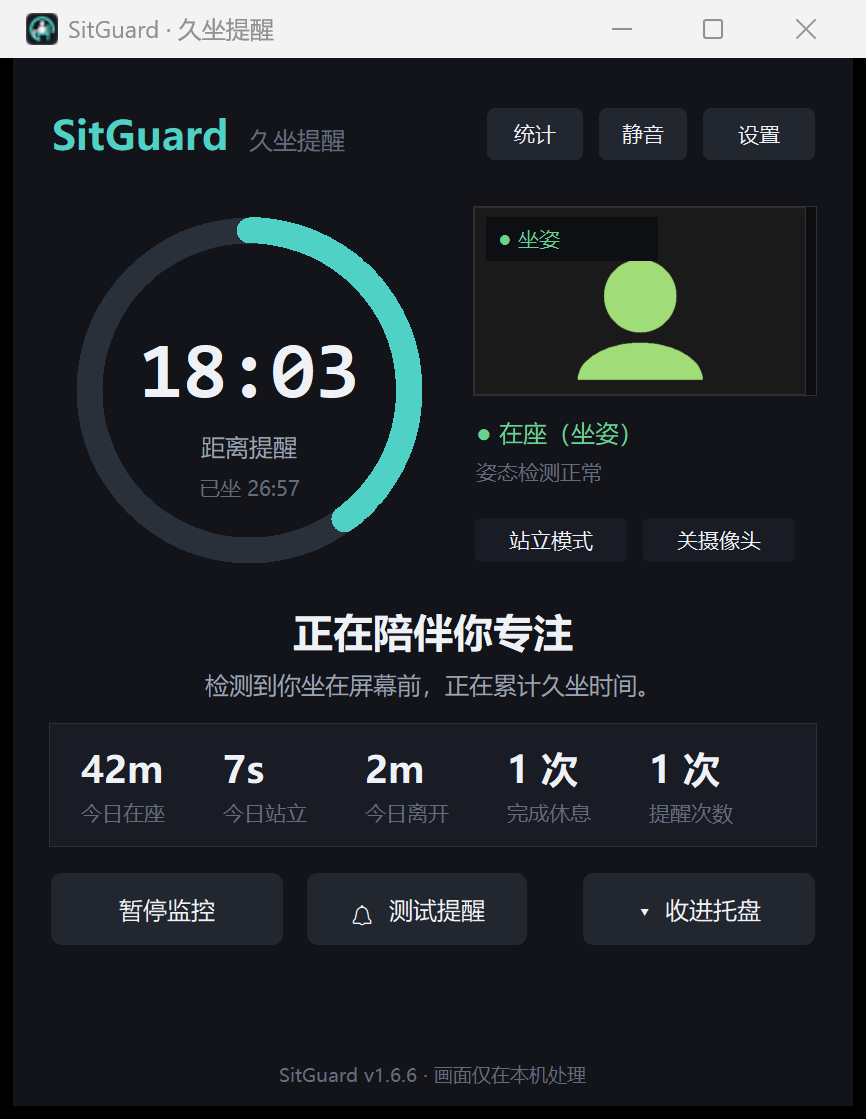
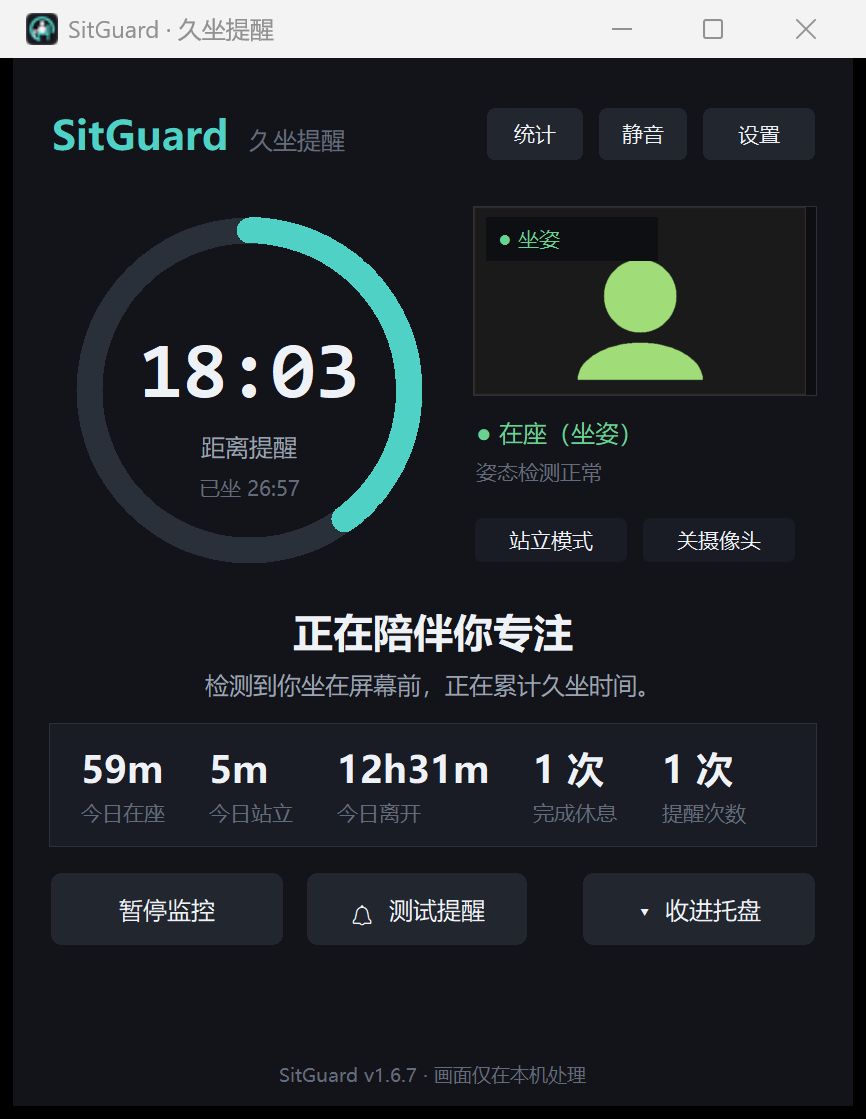
revert: remove head-down posture reminders
The face-box/nose heuristics produced too many false head-down prompts. Remove the head-state module, camera integration, main-window label, posture sound, settings row, tests and documentation; presence remains face or sitting-height shoulders.

diff --git a/sitguard/camera.py b/sitguard/camera.py
@@ -16,7 +16,6 @@ from pathlib import Path
 import cv2
 import numpy as np
 
-from .head import HeadState
 from .health import FrameHealth
 from .posture import (L_SHOULDER, R_SHOULDER, Landmark, Posture, PostureAnalyzer,
                       PostureProfile, extract_profile)
@@ -62,7 +61,6 @@ class CameraSnapshot:
     pose: list[Landmark] | None = None
     stamp: float = 0.0
     status: CameraStatus = field(default_factory=CameraStatus)
-    head_down: bool = False
 
 
 class FaceDetector:
@@ -186,10 +184,8 @@ class CameraWorker:
         self._cap = None
         self.posture = PostureAnalyzer()
         self._last_posture: Posture = "unknown"
-        self._last_head: str | None = None
         self._pose_error = ""
         self._health = FrameHealth()
-        self.head = HeadState()
         self._blocked = False
         self._blocked_since = 0.0
         self._blocked_logged = 0.0
@@ -266,7 +262,7 @@ class CameraWorker:
             return CameraSnapshot(snap.frame, list(snap.faces), snap.seen,
                                   snap.posture, snap.posture_reason,
                                   snap.standing_seconds, snap.profile, snap.pose,
-                                  snap.stamp, snap.status.copy(), snap.head_down)
+                                  snap.stamp, snap.status.copy())
 
     @property
     def status(self) -> CameraStatus:
@@ -447,34 +443,8 @@ class CameraWorker:
                             pose_lms = None
                     h, w = frame.shape[:2]
                     profile = extract_profile(faces, pose_lms, w, h)
-                    sit = self.posture.sitting_profile
-                    sit_face_y = sit.face_y if sit is not None else None
-                    sit_bottom = ((sit.face_y + (sit.face_h or 0) / 2.0)
-                                  if sit is not None and sit.face_y is not None else None)
                     body_present = self._pose_body_present(pose_lms)
-                    head = self.head.update(seen, profile, pose_lms, now,
-                                            sit_face_y, body_present, sit_bottom)
-                    head_down = head == "down"
-                    # 脸/鼻子都没有、肩膀也看不到时，低头最多维持 5 分钟，
-                    # 避免人离开后一直被记成坐着。
-                    if (head_down and not seen and not body_present
-                            and self.head.last_at
-                            and now - self.head.last_at > 300.0):
-                        head_down = False
-                        head = None
-                    if head != self._last_head:
-                        log.info("头部状态：%s → %s nose=%s shoulder=%s face_y=%s",
-                                 self._last_head, head,
-                                 None if not pose_lms else
-                                 (round(pose_lms[0].y, 3), round(pose_lms[0].x, 3),
-                                  round(pose_lms[0].visibility, 2)),
-                                 None if profile.shoulder_y is None else round(profile.shoulder_y, 3),
-                                 None if profile.face_y is None else round(profile.face_y, 3))
-                        self._last_head = head
-                    if head == "side":
-                        person = False
-                    else:
-                        person = seen or head_down or body_present
+                    person = seen or body_present
                     if self.on_presence:
                         try:
                             self.on_presence(person, now)
@@ -484,10 +454,6 @@ class CameraWorker:
                         posture = self.posture.update(
                             now, pose=pose_lms, profile=profile,
                             face_present=seen, person_present=person)
-                        # 低头且肩膀仍在坐姿高度时，优先按坐姿处理，
-                        # 避免膝盖/躯干比例把低头误判成站立。
-                        if head_down and body_present and posture == "standing":
-                            posture = "sitting"
                     except Exception:  # noqa: BLE001
                         log.exception("姿态分析异常")
                     if posture != self._last_posture:
@@ -515,7 +481,6 @@ class CameraWorker:
                     snap.profile = profile
                     snap.pose = pose_lms
                     snap.stamp = now
-                    snap.head_down = head_down
                     if self._blocked:
                         snap.status.state = "blocked"
                         snap.status.message = "画面全黑：请检查摄像头遮挡盖、隐私开关或镜头盖"
@@ -552,7 +517,6 @@ class SimulatedCamera:
         self._present = True
         self._posture: Posture = "sitting"
         self._last_posture: Posture = "unknown"
-        self._last_head: str | None = None
 
     def start(self) -> None:
         self._stop.clear()

diff --git a/sitguard/app.py b/sitguard/app.py
@@ -99,8 +99,6 @@ class App:
         self._stand_goal_started = time.monotonic()
         self._stand_goal_last = 0.0
         self._last_stand_check = 0.0
-        self._head_down_active = False
-        self._last_head_down_reminder = 0.0
         self._last_stats_save = time.monotonic()
         self._last_preview = 0.0
         self._tray = None
@@ -431,7 +429,6 @@ class App:
             self._track_posture(now)
             self._track_activity()
             self._check_stand_goal(now)
-            self._check_head_down(now)
             try:
                 view = bool(self.root.winfo_exists()) and self.root.state() != "withdrawn"
             except tk.TclError:
@@ -494,11 +491,9 @@ class App:
     def _track_activity(self) -> None:
         pose_ok = self._camera_snapshot.status.pose_ok
         snap = self.engine.snapshot(self._camera_state, self._camera_message, pose_ok)
-        head_down = bool(getattr(self._camera_snapshot, "head_down", False))
         kind = ("paused" if snap.phase is Phase.PAUSED
                 else ("away" if not snap.present
-                      else ("sitting" if head_down
-                            else ("standing" if snap.posture == "standing" else "sitting"))))
+                      else ("standing" if snap.posture == "standing" else "sitting")))
         self.activity.update(kind)
 
     def _refresh(self, now: float) -> None:
@@ -687,25 +682,6 @@ class App:
             sound.reminder_sound(cfg.sound_file, cfg.sound_name)
         log.info("站立不足提醒：%.0f 秒 / %d 分钟窗口", standing,
                  cfg.stand_goal_window_minutes)
-
-    def _check_head_down(self, now: float) -> None:
-        """低头看手机/书时保持坐姿计时，并提醒纠正体态。"""
-        down = bool(getattr(self._camera_snapshot, "head_down", False))
-        active = (down and self.engine.present
-                  and self.engine.phase is Phase.WATCHING)
-        if not active:
-            self._head_down_active = False
-            return
-        due = (not self._head_down_active
-               or now - self._last_head_down_reminder >= 180.0)
-        if not due:
-            return
-        self._head_down_active = True
-        self._last_head_down_reminder = now
-        self.notify(i18n.t("toast_head_down"), ui.WARN, ms=4200)
-        if self.config.sound and not self.is_silent():
-            sound.posture_sound(self.config.posture_sound)
-        log.info("低头体态提醒")
 
     def _track_posture(self, now: float) -> None:
         snap = self.engine.snapshot(self._camera_state, self._camera_message,

diff --git a/sitguard/views.py b/sitguard/views.py
@@ -492,9 +492,7 @@ class MainWindow:
         sit = snap.sitting_seconds
         limit = snap.sit_limit
         ratio = sit / limit if limit else 0
-        head_down = (self.app._camera_state == "ok" and snap.present
-                     and bool(getattr(self.app._camera_snapshot, "head_down", False)))
-        standing = snap.posture == "standing" and snap.present and not head_down
+        standing = snap.posture == "standing" and snap.present
 
         if phase is Phase.PAUSED:
             heading = t("paused_heading")
@@ -547,16 +545,11 @@ class MainWindow:
                                        color=color)
             self.btn_pause.configure_text(t("pause"))
 
-        if head_down:
-            heading = t("head_down_heading")
-            sub = t("head_down_sub")
         self.lbl_heading.configure(text=heading)
         self.lbl_sub.configure(text=sub)
 
         if camera_state == "ok":
-            if head_down:
-                self.lbl_presence.configure(text=t("head_down_label"), fg=ui.WARN)
-            elif not snap.present:
+            if not snap.present:
                 away = snap.away_seconds
                 if away >= 60:
                     self.lbl_presence.configure(
@@ -1631,7 +1624,7 @@ class SoundWindow:
     """选择提醒音、站起音、坐下音；支持自定义 WAV。"""
 
     KEYS = ("classic", "bright", "drop", "rise", "dingdong", "wood",
-            "bird", "retro", "sit_soft", "stand_up", "posture", "none")
+            "bird", "retro", "sit_soft", "stand_up", "none")
 
     def __init__(self, app, root: tk.Tk):
         self.app = app
@@ -1685,10 +1678,6 @@ class SoundWindow:
         self._sound_row(win, t("sound_stand"), stand_var,
                         lambda: self._pick("stand_sound", stand_var),
                         "stand_sound", cfg.stand_sound)
-        posture_var = tk.StringVar(value=self._label(cfg.posture_sound))
-        self._sound_row(win, t("sound_posture"), posture_var,
-                        lambda: self._pick("posture_sound", posture_var),
-                        "posture_sound", cfg.posture_sound)
 
         ui.RoundButton(win, t("close"), command=self.close, width=110,
                        height=36, radius=10, bg=ui.BG_3,
@@ -1751,8 +1740,6 @@ class SoundWindow:
             sound.reminder_sound(cfg.sound_file, cfg.sound_name)
         elif field == "sit_sound":
             sound.sit_sound(cfg.sit_sound)
-        elif field == "posture_sound":
-            sound.posture_sound(cfg.posture_sound)
         else:
             sound.stand_sound(cfg.stand_sound)
 

diff --git a/sitguard/i18n.py b/sitguard/i18n.py
@@ -81,8 +81,8 @@ _T = {
     "stats_no_record": ("该日期没有记录", "No record for this date"),
     "stats_bad_date": ("日期格式：YYYY-MM-DD", "Date format: YYYY-MM-DD"),
     "stats_future": ("不能查看未来日期", "Cannot view a future date"),
-    "footer": ("SitGuard v1.6.6 · 画面仅在本机处理",
-               "SitGuard v1.6.6 · Processed locally only"),
+    "footer": ("SitGuard v1.6.7 · 画面仅在本机处理",
+               "SitGuard v1.6.7 · Processed locally only"),
     "stand_mode": ("站立模式", "Stand mode"),
     "sit_down": ("坐下", "Sit down"),
     "stand": ("站立", "Stand"),
@@ -234,13 +234,6 @@ _T = {
     "sound_retro": ("8-bit", "8-bit"),
     "sound_sit_soft": ("轻声", "Soft"),
     "sound_stand_up": ("起身", "Stand up"),
-    "sound_posture": ("低头提醒", "Posture alert"),
-    "head_down_label": ("● 低头 · 注意体态", "● Head down — check posture"),
-    "head_down_heading": ("低头太久啦，抬起头来", "Head down too long — lift your head"),
-    "head_down_sub": ("抬起头、收下巴，活动一下颈椎。",
-                      "Lift your head, tuck your chin, and stretch your neck."),
-    "toast_head_down": ("低头太久啦，抬头活动一下颈椎",
-                        "Head down too long — lift your head and stretch"),
     "sound_hint": ("静默模式下不会播放任何声音",
                    "No sound is played in silent mode"),
     "sound_pick": ("选择…", "Choose…"),

diff --git a/sitguard/config.py b/sitguard/config.py
@@ -72,7 +72,6 @@ class Config:
     sound_name: str = "classic"   # 内置提醒音
     sit_sound: str = "sit_soft"   # 坐下提示音
     stand_sound: str = "stand_up" # 站起提示音
-    posture_sound: str = "posture" # 低头体态提醒音
     silent_mode: bool = False     # 静默模式：无声音、无全屏，只右下角提示
     auto_silent_on_battery: bool = True
     stand_goal_enabled: bool = True
@@ -117,7 +116,6 @@ class Config:
         c.sound_name = str(c.sound_name or "classic")
         c.sit_sound = str(c.sit_sound or "sit_soft")
         c.stand_sound = str(c.stand_sound or "stand_up")
-        c.posture_sound = str(c.posture_sound or "posture")
         c.silent_mode = bool(c.silent_mode)
         c.auto_silent_on_battery = bool(c.auto_silent_on_battery)
         c.stand_goal_enabled = bool(c.stand_goal_enabled)

diff --git a/sitguard/sound.py b/sitguard/sound.py
@@ -25,7 +25,6 @@ BUILTINS: dict[str, list[tuple]] = {
               (784, 70, "square"), (1046, 120, "square")],
     "sit_soft": [(520, 70), (400, 110)],
     "stand_up": [(700, 70), (950, 130)],
-    "posture": [(523, 100, "square"), (392, 100, "square"), (262, 190, "square")],
     "none": [],
 }
 SOUND_NAMES = tuple(BUILTINS)
@@ -99,10 +98,6 @@ def sit_sound(name: str = "sit_soft") -> None:
 
 
 def stand_sound(name: str = "stand_up") -> None:
-    play_builtin(name)
-
-
-def posture_sound(name: str = "posture") -> None:
     play_builtin(name)
 
 

diff --git a/sitguard/__init__.py b/sitguard/__init__.py
@@ -1,5 +1,5 @@
 """SitGuard — 久坐提醒（摄像头在场检测）。"""
 
-__version__ = "1.6.6"
+__version__ = "1.6.7"
 APP_NAME = "SitGuard"
 APP_NAME_CN = "久坐提醒"

diff --git a/README_ZH.md b/README_ZH.md
@@ -69,7 +69,6 @@ English UI:
 | 立即关闭 | 「我站起来了」「关闭本次提醒」点一下立即结束，不再卡住 |
 | 离开/站立重置 | 站立或离开超过 3 分钟，久坐计时从 0 重新开始 |
 | 站立目标 | 任意滚动 90 分钟内站立不足 10 分钟，会轻声提醒一次（设置里可关） |
-| 低头识别 | 头部检测框下缘接近画面底部才算低头（看书/手机），稍低一点不算；头往左右才算离开；低头有专门提示音 |
 | 今日统计 | 主界面直接显示今日在座、站立、离开、完成休息、提醒次数 |
 | 托盘常驻 | 关闭窗口不退出；托盘菜单可暂停、立即休息、结束休息、今日统计、开关摄像头 |
 | 活动统计 | 每段记录开始/结束时间；当天明细列出几点坐下、站起、离开，附近 7 天平均；无限保留，可按日期查看 |

diff --git a/README.md b/README.md
@@ -31,9 +31,6 @@ as soon as you stand.
 - **Stand goal** — if you stand for less than 10 minutes across any rolling
   90-minute window, a gentle toast and sound nudge you to move (can be turned
   off in Settings).
-- **Head-down vs looking away** — only when the head box reaches the bottom of
-  the frame (reading/phone) does it count as head-down and trigger a posture
-  reminder with its own sound; a sideways head is treated as leaving.
 - **Sound-only mode** — hide the full-screen reminder; the app still plays
   the alert and re-reminds you every 5 minutes while you keep sitting.
 - **No main-window pop-up** — after you stand, only a small desktop toast
